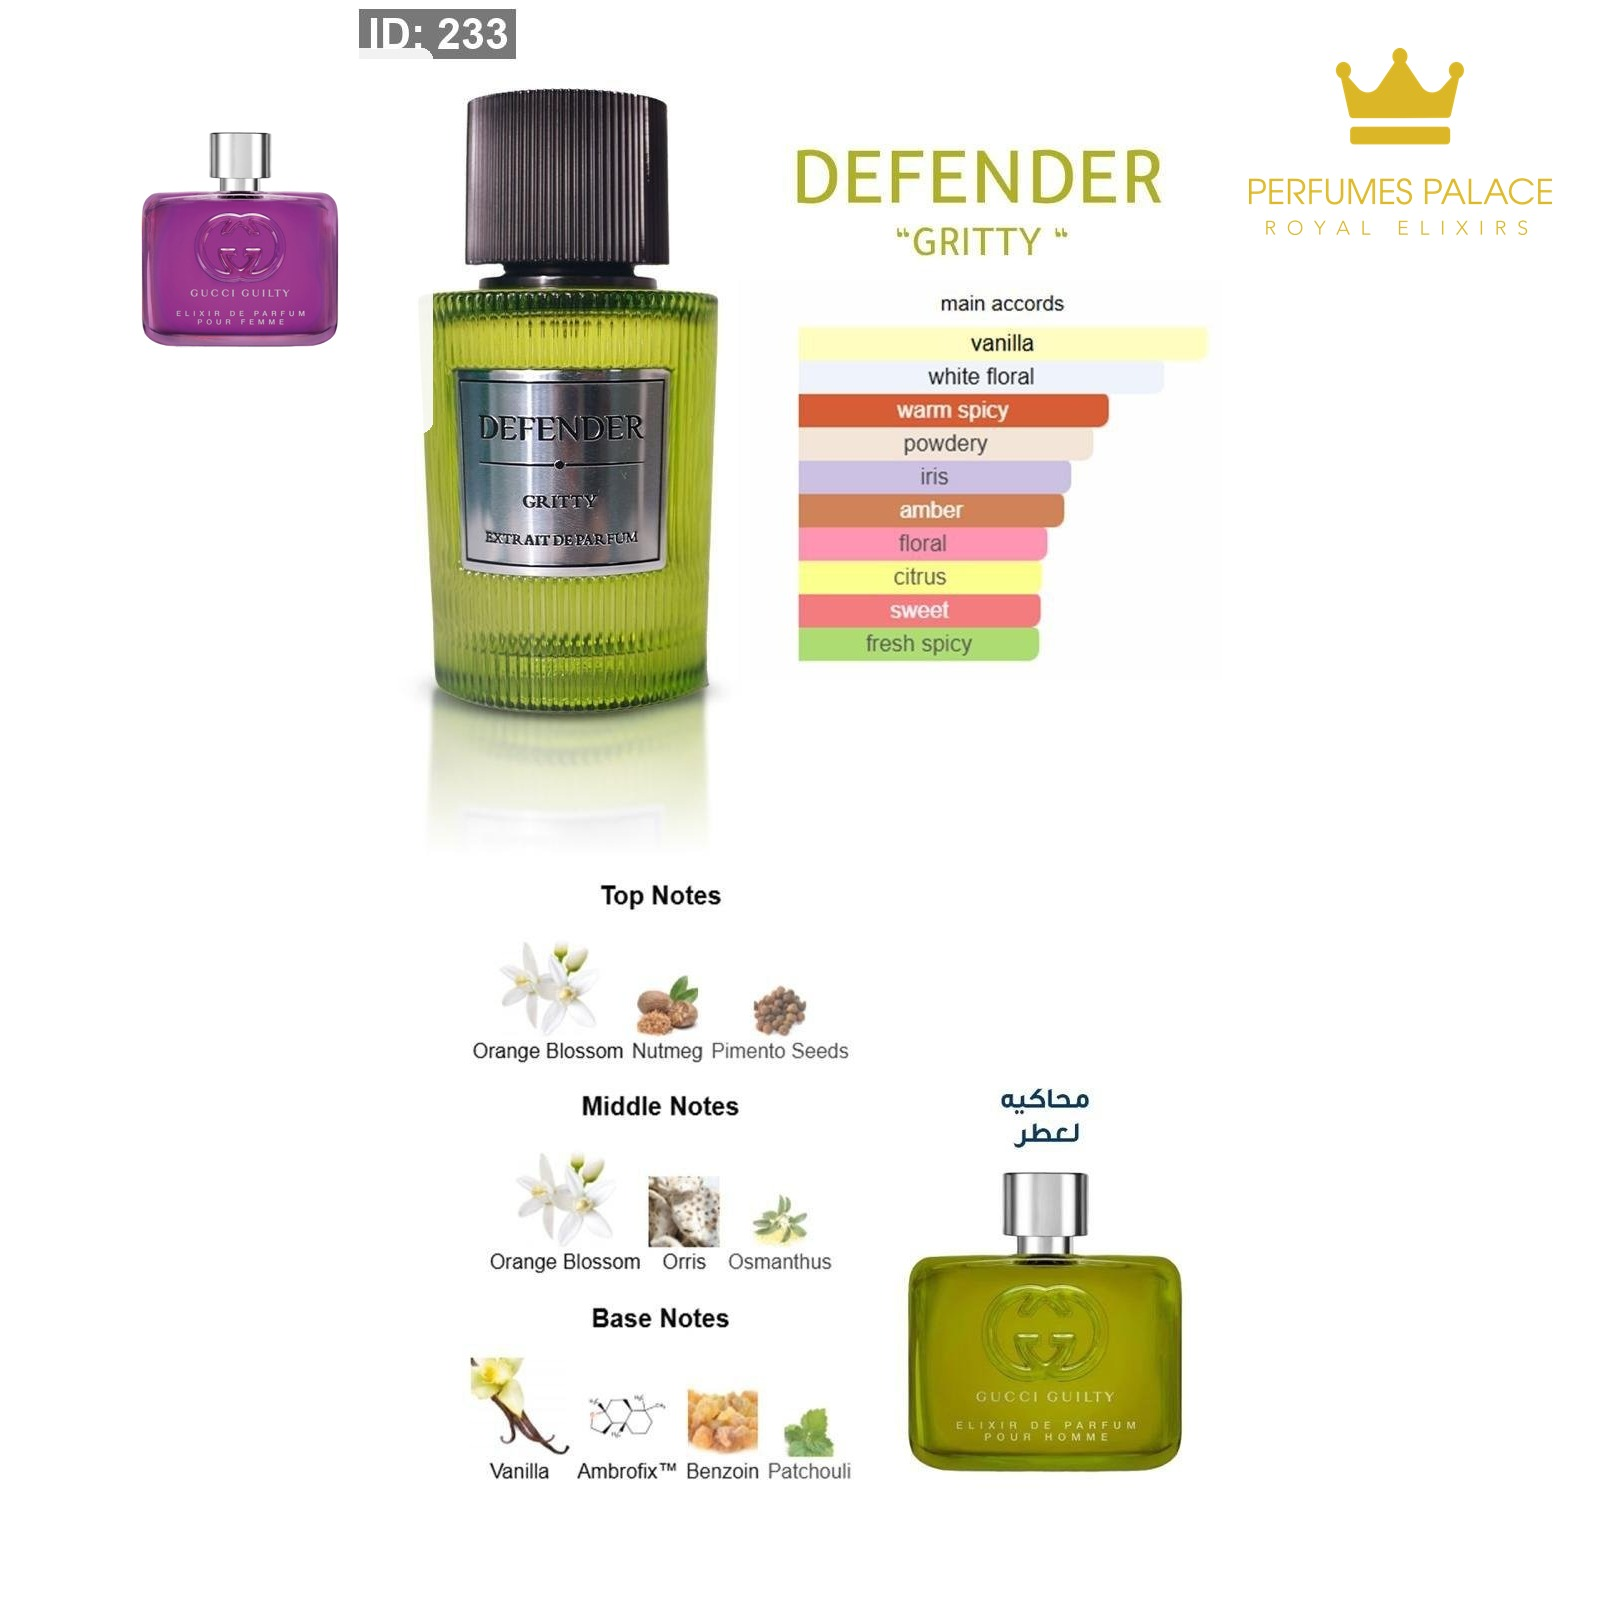
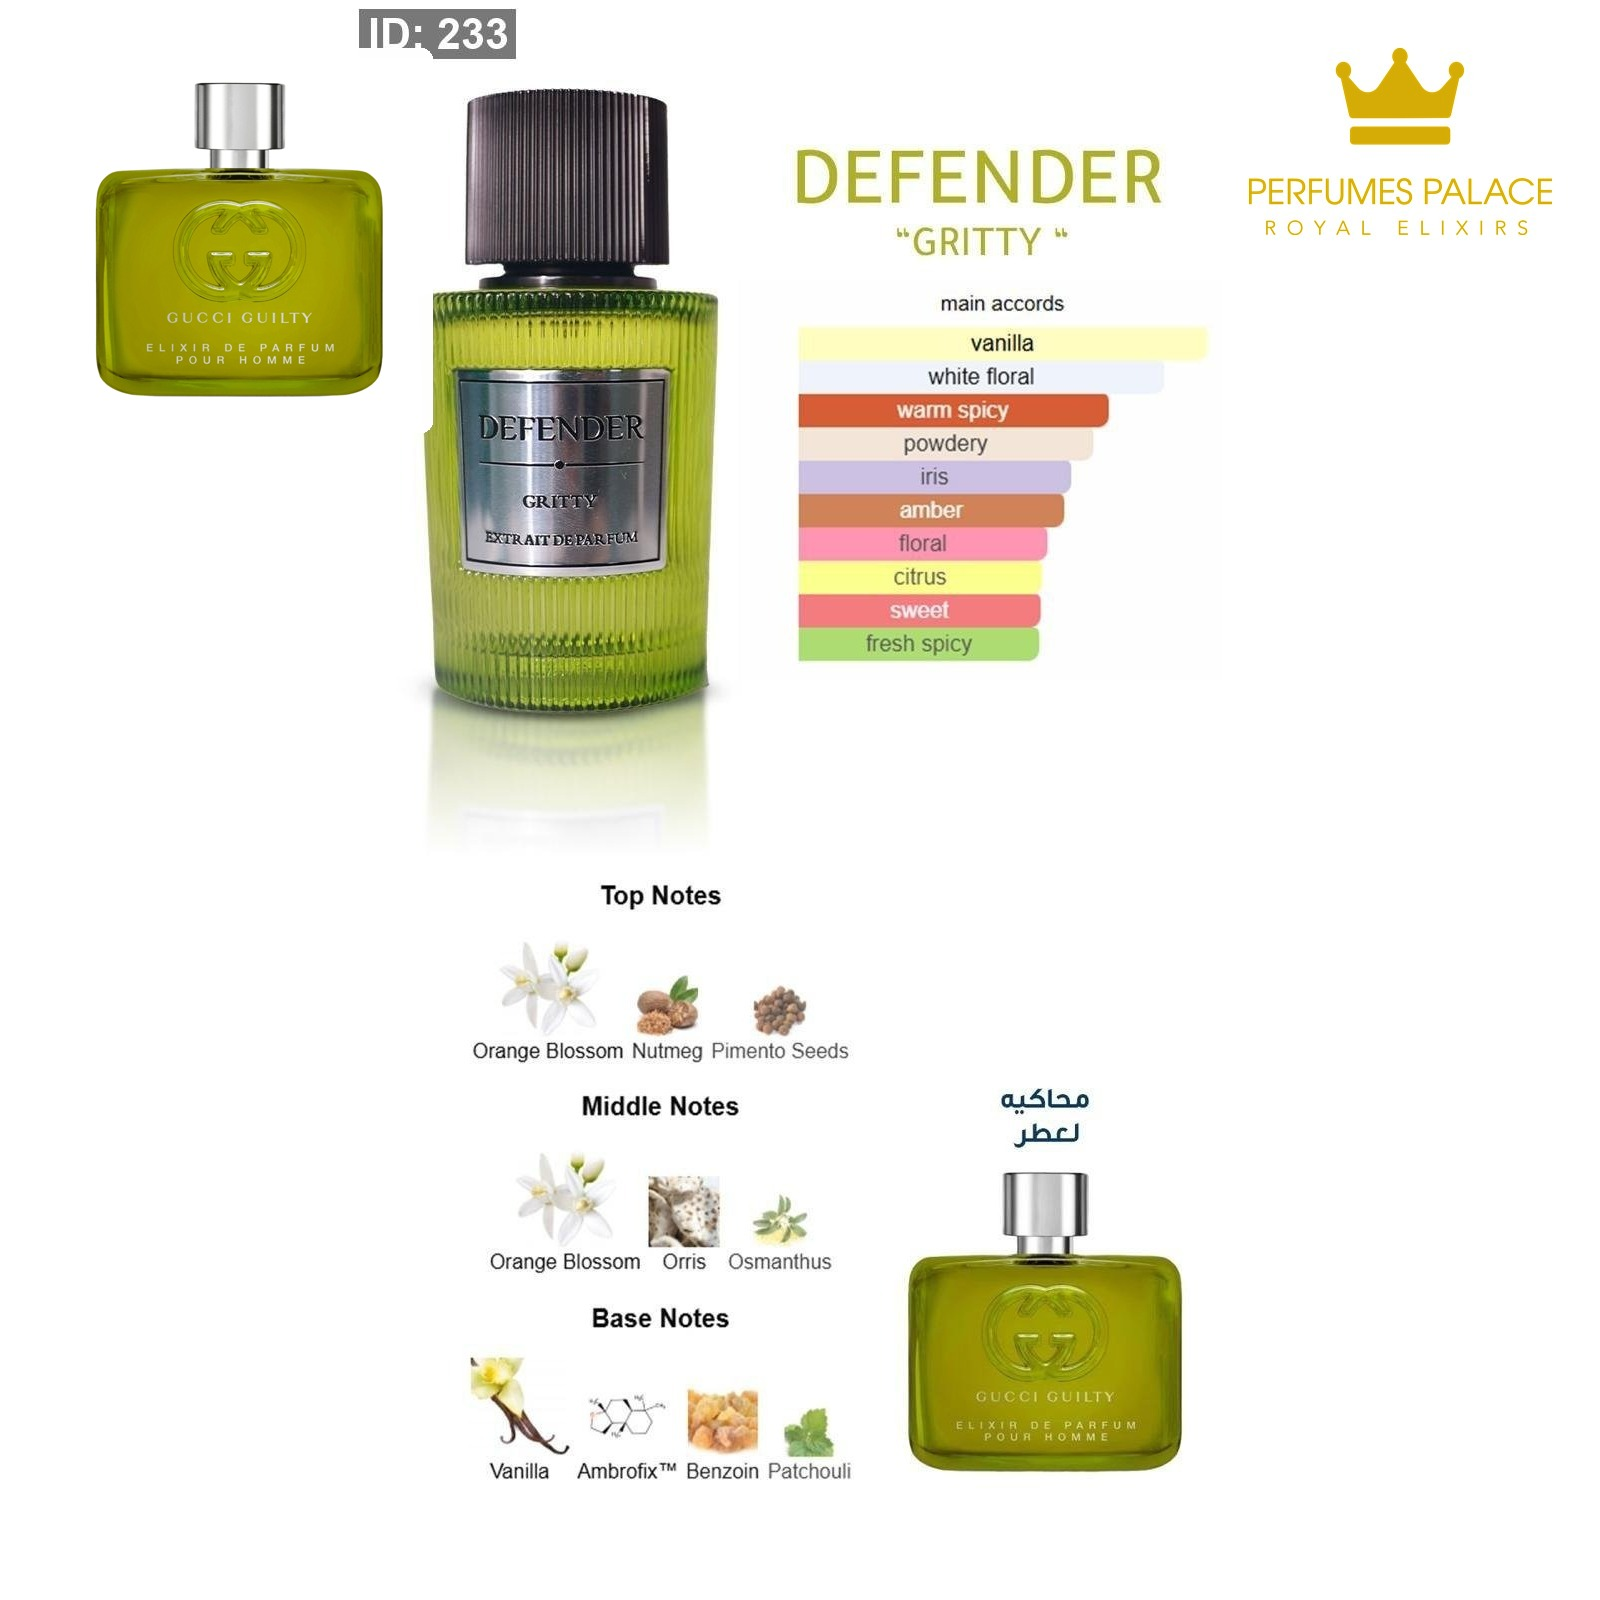
Fix Gritty badge: Gucci Guilty Elixir de Parfum Pour Homme (green)
The fetched badge bottle was the Pour Femme (purple); replaced with
the men's Pour Homme flacon (MaxAroma, EAN-verified).

Changed region(s): [[0.0625, 0.0312, 0.25, 0.25], [0.7812, 0.0312, 0.9688, 0.1562]]

diff --git a/alternative-pictures/compose.py b/alternative-pictures/compose.py
@@ -36,6 +36,7 @@ def find_original(names):
     aliases = {
         'Maison Francis Kurkdjian Baccarat Rouge 540': 'MFK Baccarat Rouge 540',
         'YSL Myself': 'YSL MYSLF',
+        'Gucci Guilty Elixir de Parfum Pour Homme': 'Gucci Guilty Elixir Pour Homme',
         'Jean Paul Gaultier Le Male Elixir Absolu': 'Le Male Elixir Absolu',
         'Giorgio Armani Stronger With You Sandalwood': 'Giorgio Armani Stronger With You Intensely',
     }
